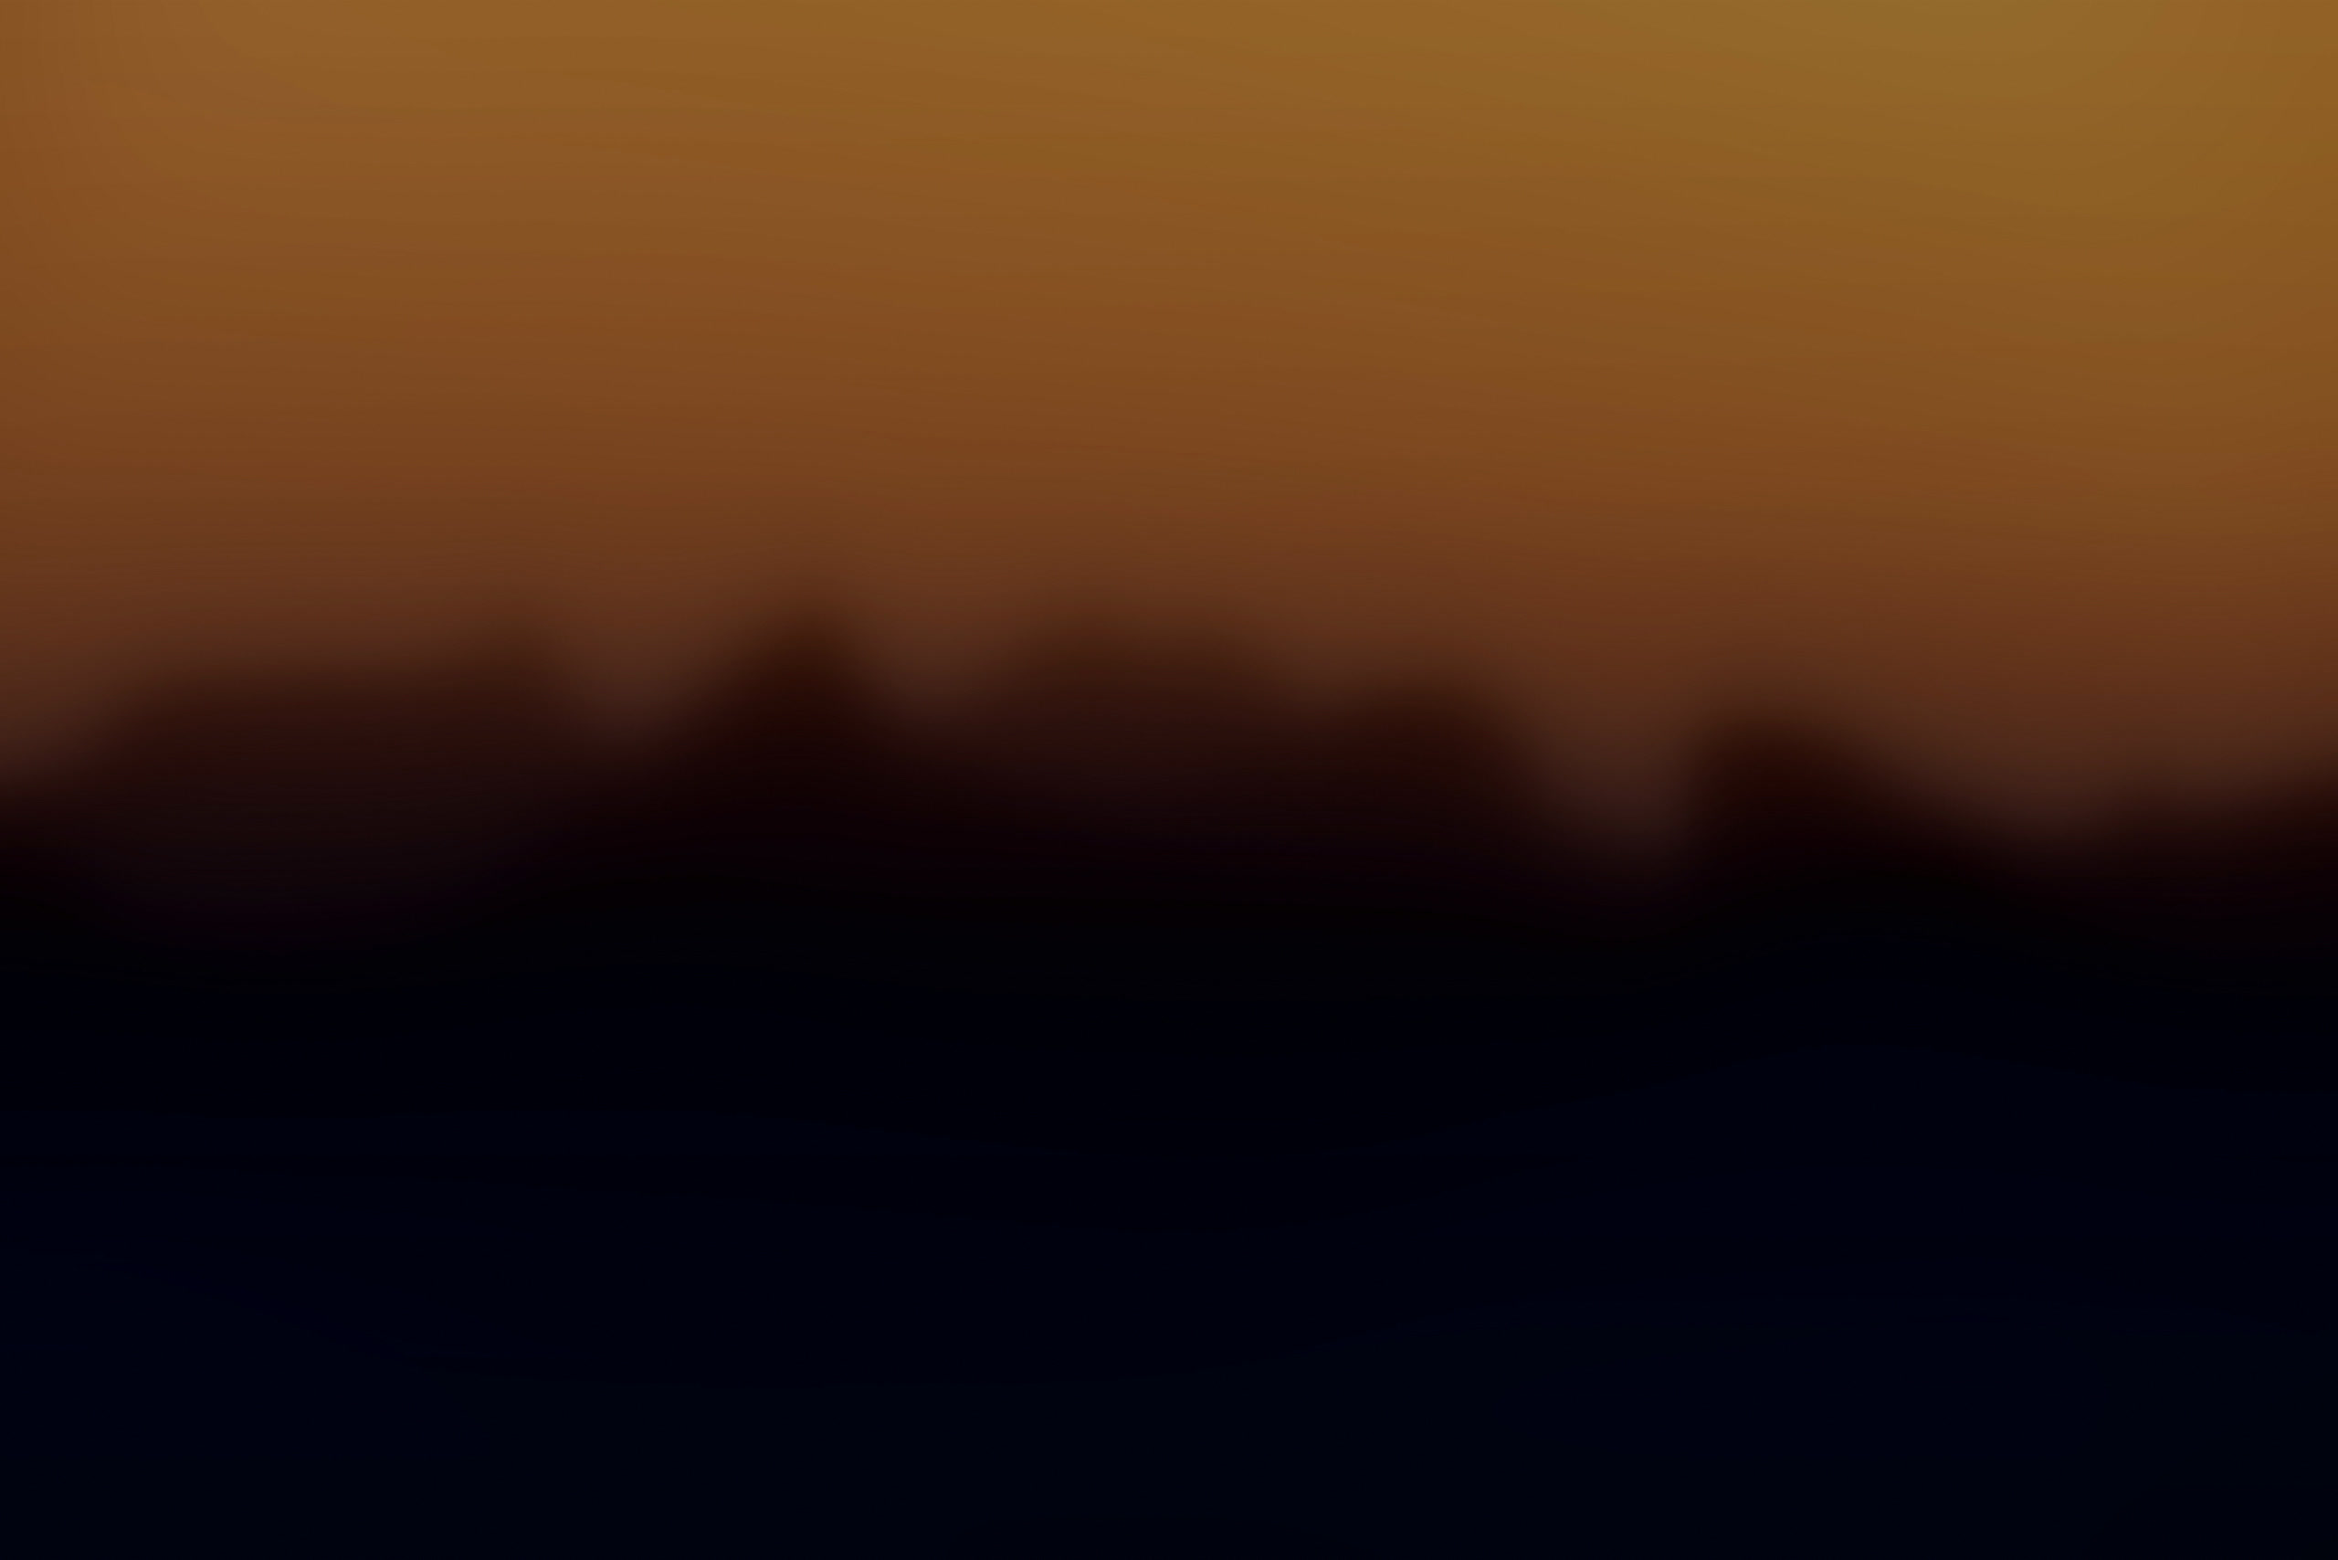
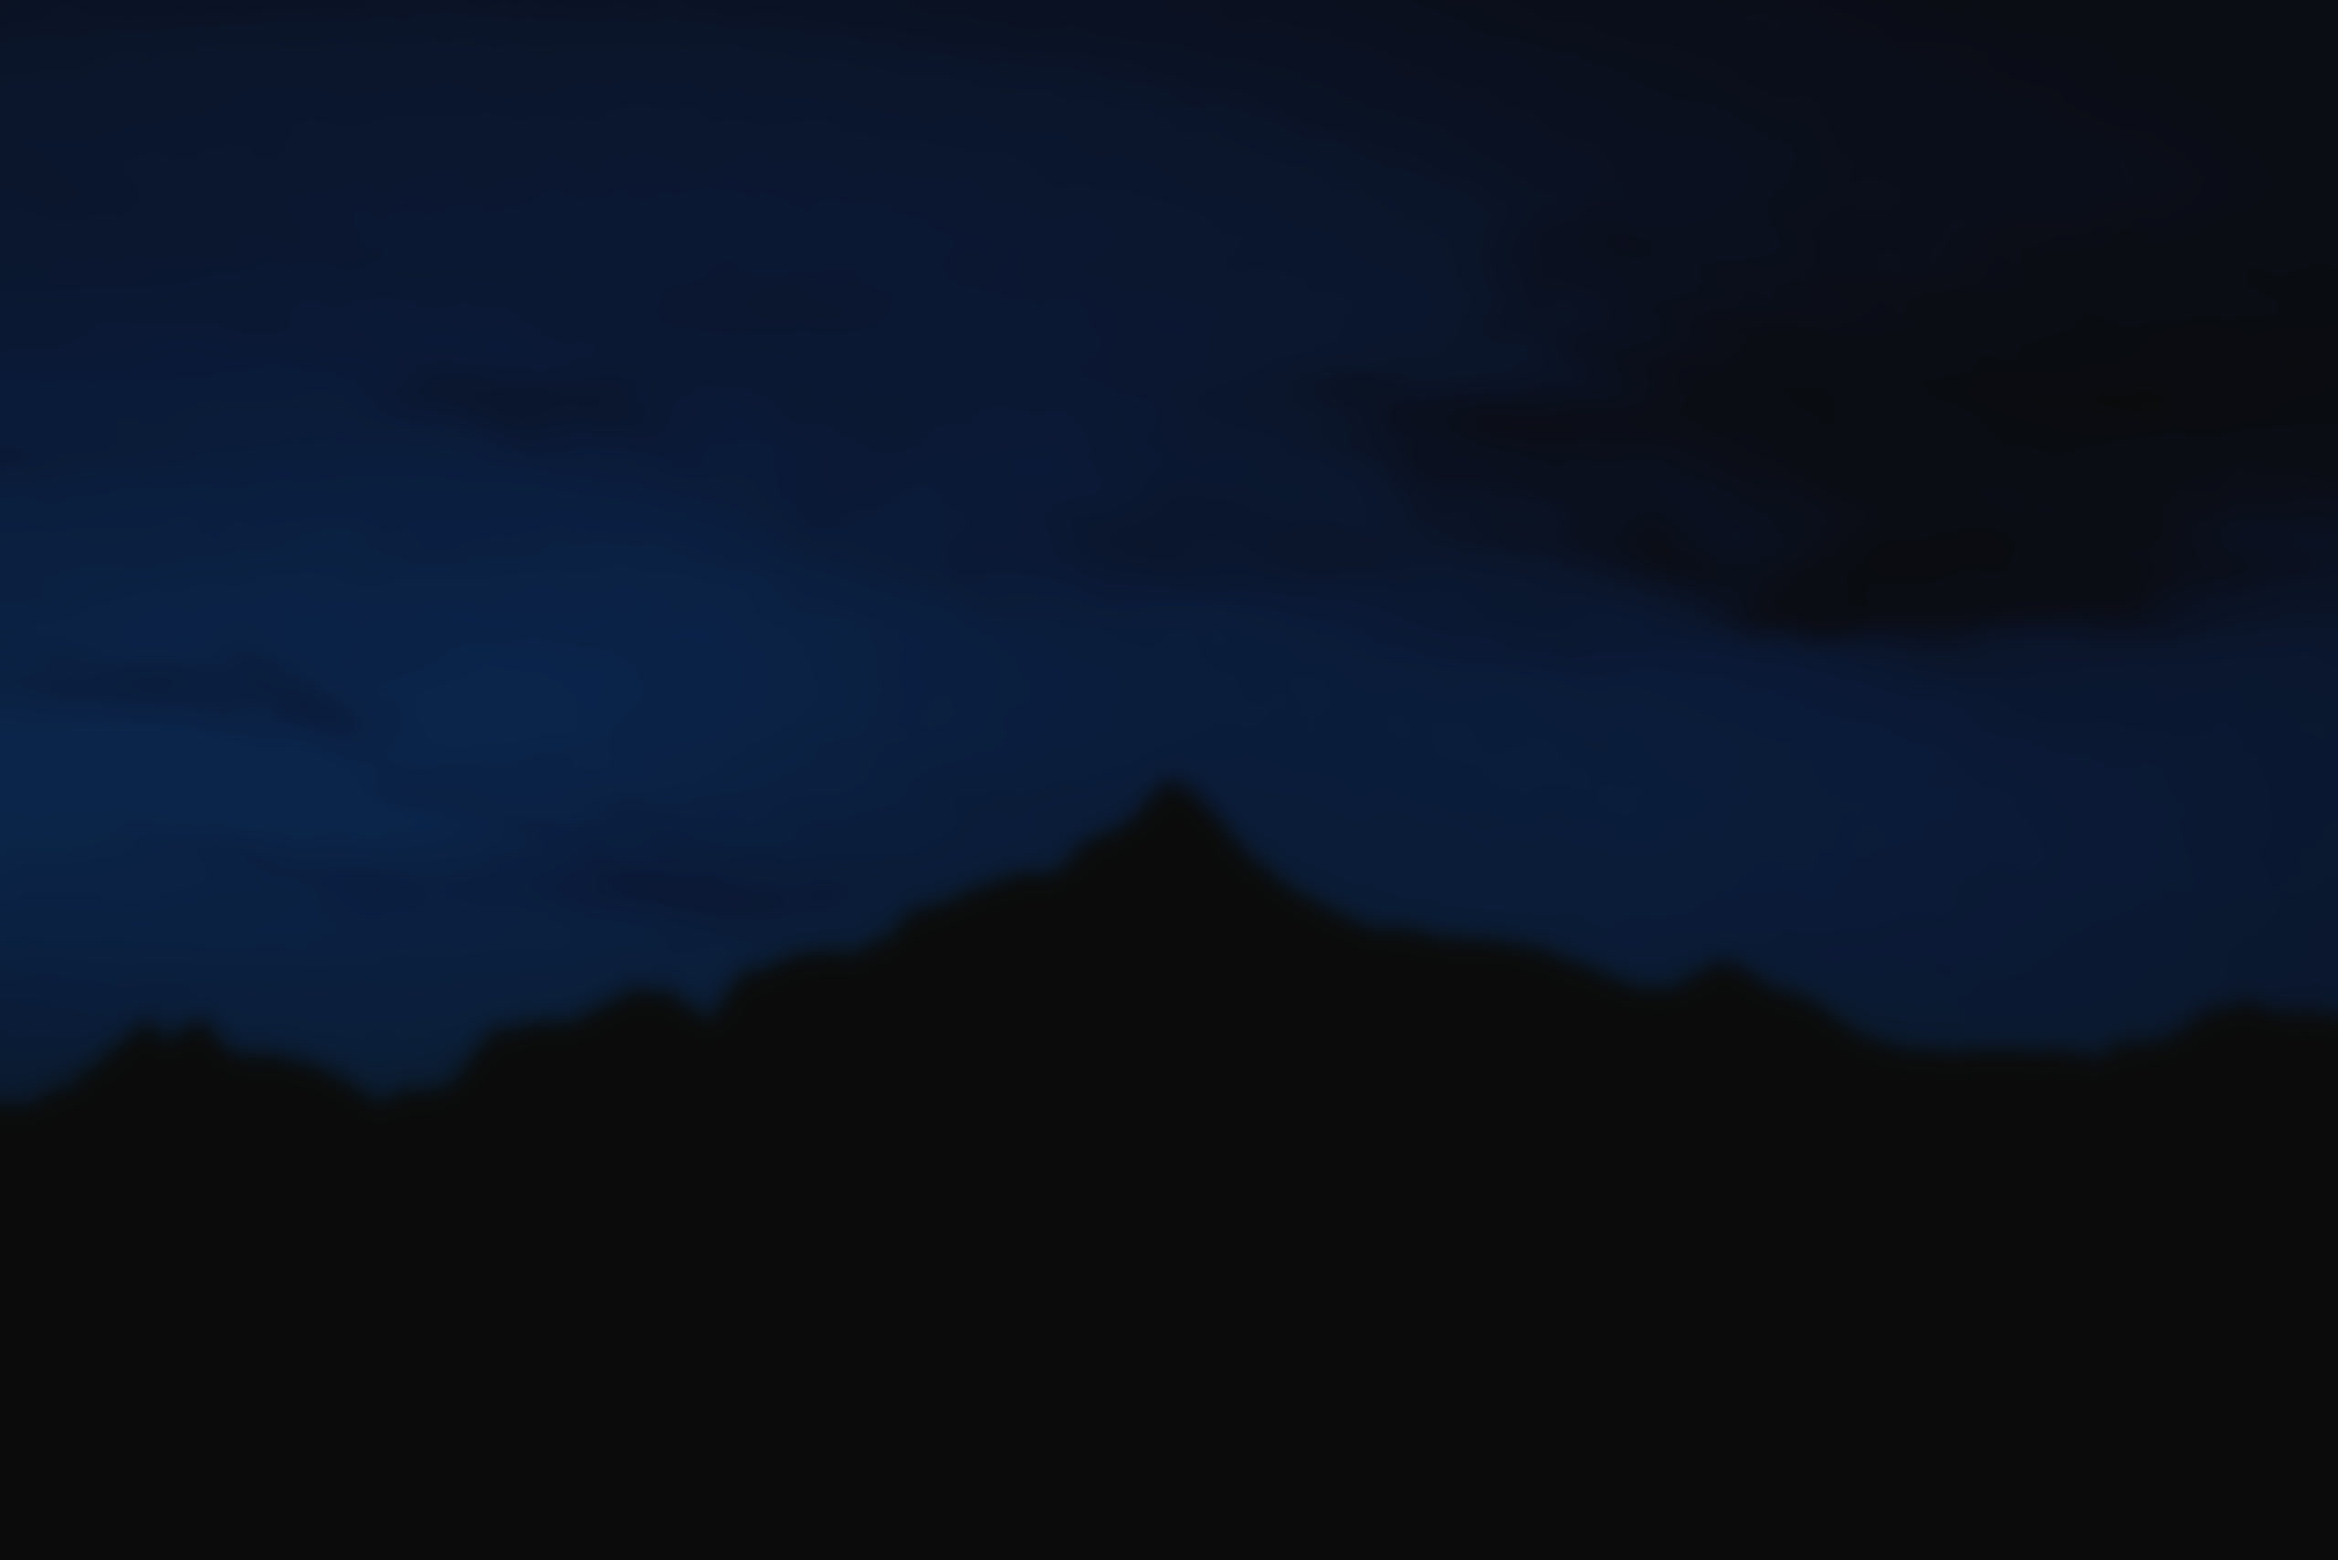
feat: 背景の加工をしずかなインターネットにそろえ、写真を取り直す
- 背景の加工を、しずかなインターネットと同じ「12px のぼかし」と「#2c2d2d の上に
  不透明度 75% で重ねる」だけにする（ザラつき・減光・彩度の調整をやめる）
- 暗さは加工ではなく写真選びで決まるので、川・山・雨の写真を暗めのものに取り直す
  （Unsplash License。本文の列の明るいところでも文字とのコントラスト比 4.5 以上）
- フォントサイズを 16 にし、本文の幅を 70 マス（約 595px）にする

diff --git a/local/yohaku.nvim/CREDITS.md b/local/yohaku.nvim/CREDITS.md
@@ -1,15 +1,16 @@
 # 素材の出典
 
 画像は `scripts/prepare-image.sh`、音声は `scripts/prepare-sound.sh` で加工したもの
-（画像はぼかして暗くし、音声は両端を切ってループ用にクロスフェードし、音量をそろえた）。
+（画像はしずかなインターネットと同じく 12px ぼかして下地の #2c2d2d に 75% の濃さで重ね、
+音声は両端を切ってループ用にクロスフェードし、音量をそろえた）。
 
 ## 背景画像
 
 | ファイル | 写真 | 撮影者 | ライセンス |
 |---|---|---|---|
-| `backgrounds/river.jpg` | [Turquoise river flowing in a mountain valley](https://www.pexels.com/photo/turquoise-river-flowing-in-a-mountain-valley-17948409/) | Annaëlle Quionquion | [Pexels License](https://www.pexels.com/license/) |
-| `backgrounds/mountain.jpg` | [Layered mountain peaks at sunset with orange sky](https://unsplash.com/photos/layered-mountain-peaks-at-sunset-with-orange-sky-zSiqe6j9Aao) | Ahmet Yüksek | [Unsplash License](https://unsplash.com/license) |
-| `backgrounds/rain.jpg` | [A forest filled with lots of trees covered in fog](https://unsplash.com/photos/a-forest-filled-with-lots-of-trees-covered-in-fog-_BR3-t7VRrw) | Maksim Samuilionak | [Unsplash License](https://unsplash.com/license) |
+| `backgrounds/river.jpg` | [A stream running through a lush green forest](https://unsplash.com/photos/a-stream-running-through-a-lush-green-forest-nM7KMy14kcY) | Daniel Alexandre Páscoa | [Unsplash License](https://unsplash.com/license) |
+| `backgrounds/mountain.jpg` | [The silhouette of a mountain against a dark blue sky](https://unsplash.com/photos/the-silhouette-of-a-mountain-against-a-dark-blue-sky-G7sDNMQn_GA) | Martin Adams | [Unsplash License](https://unsplash.com/license) |
+| `backgrounds/rain.jpg` | [Rain drops on a window with a dark sky in the background](https://unsplash.com/photos/rain-drops-on-a-window-with-a-dark-sky-in-the-background-8Poc0TjWOgA) | Bernd Dittrich | [Unsplash License](https://unsplash.com/license) |
 
 ## 環境音
 
